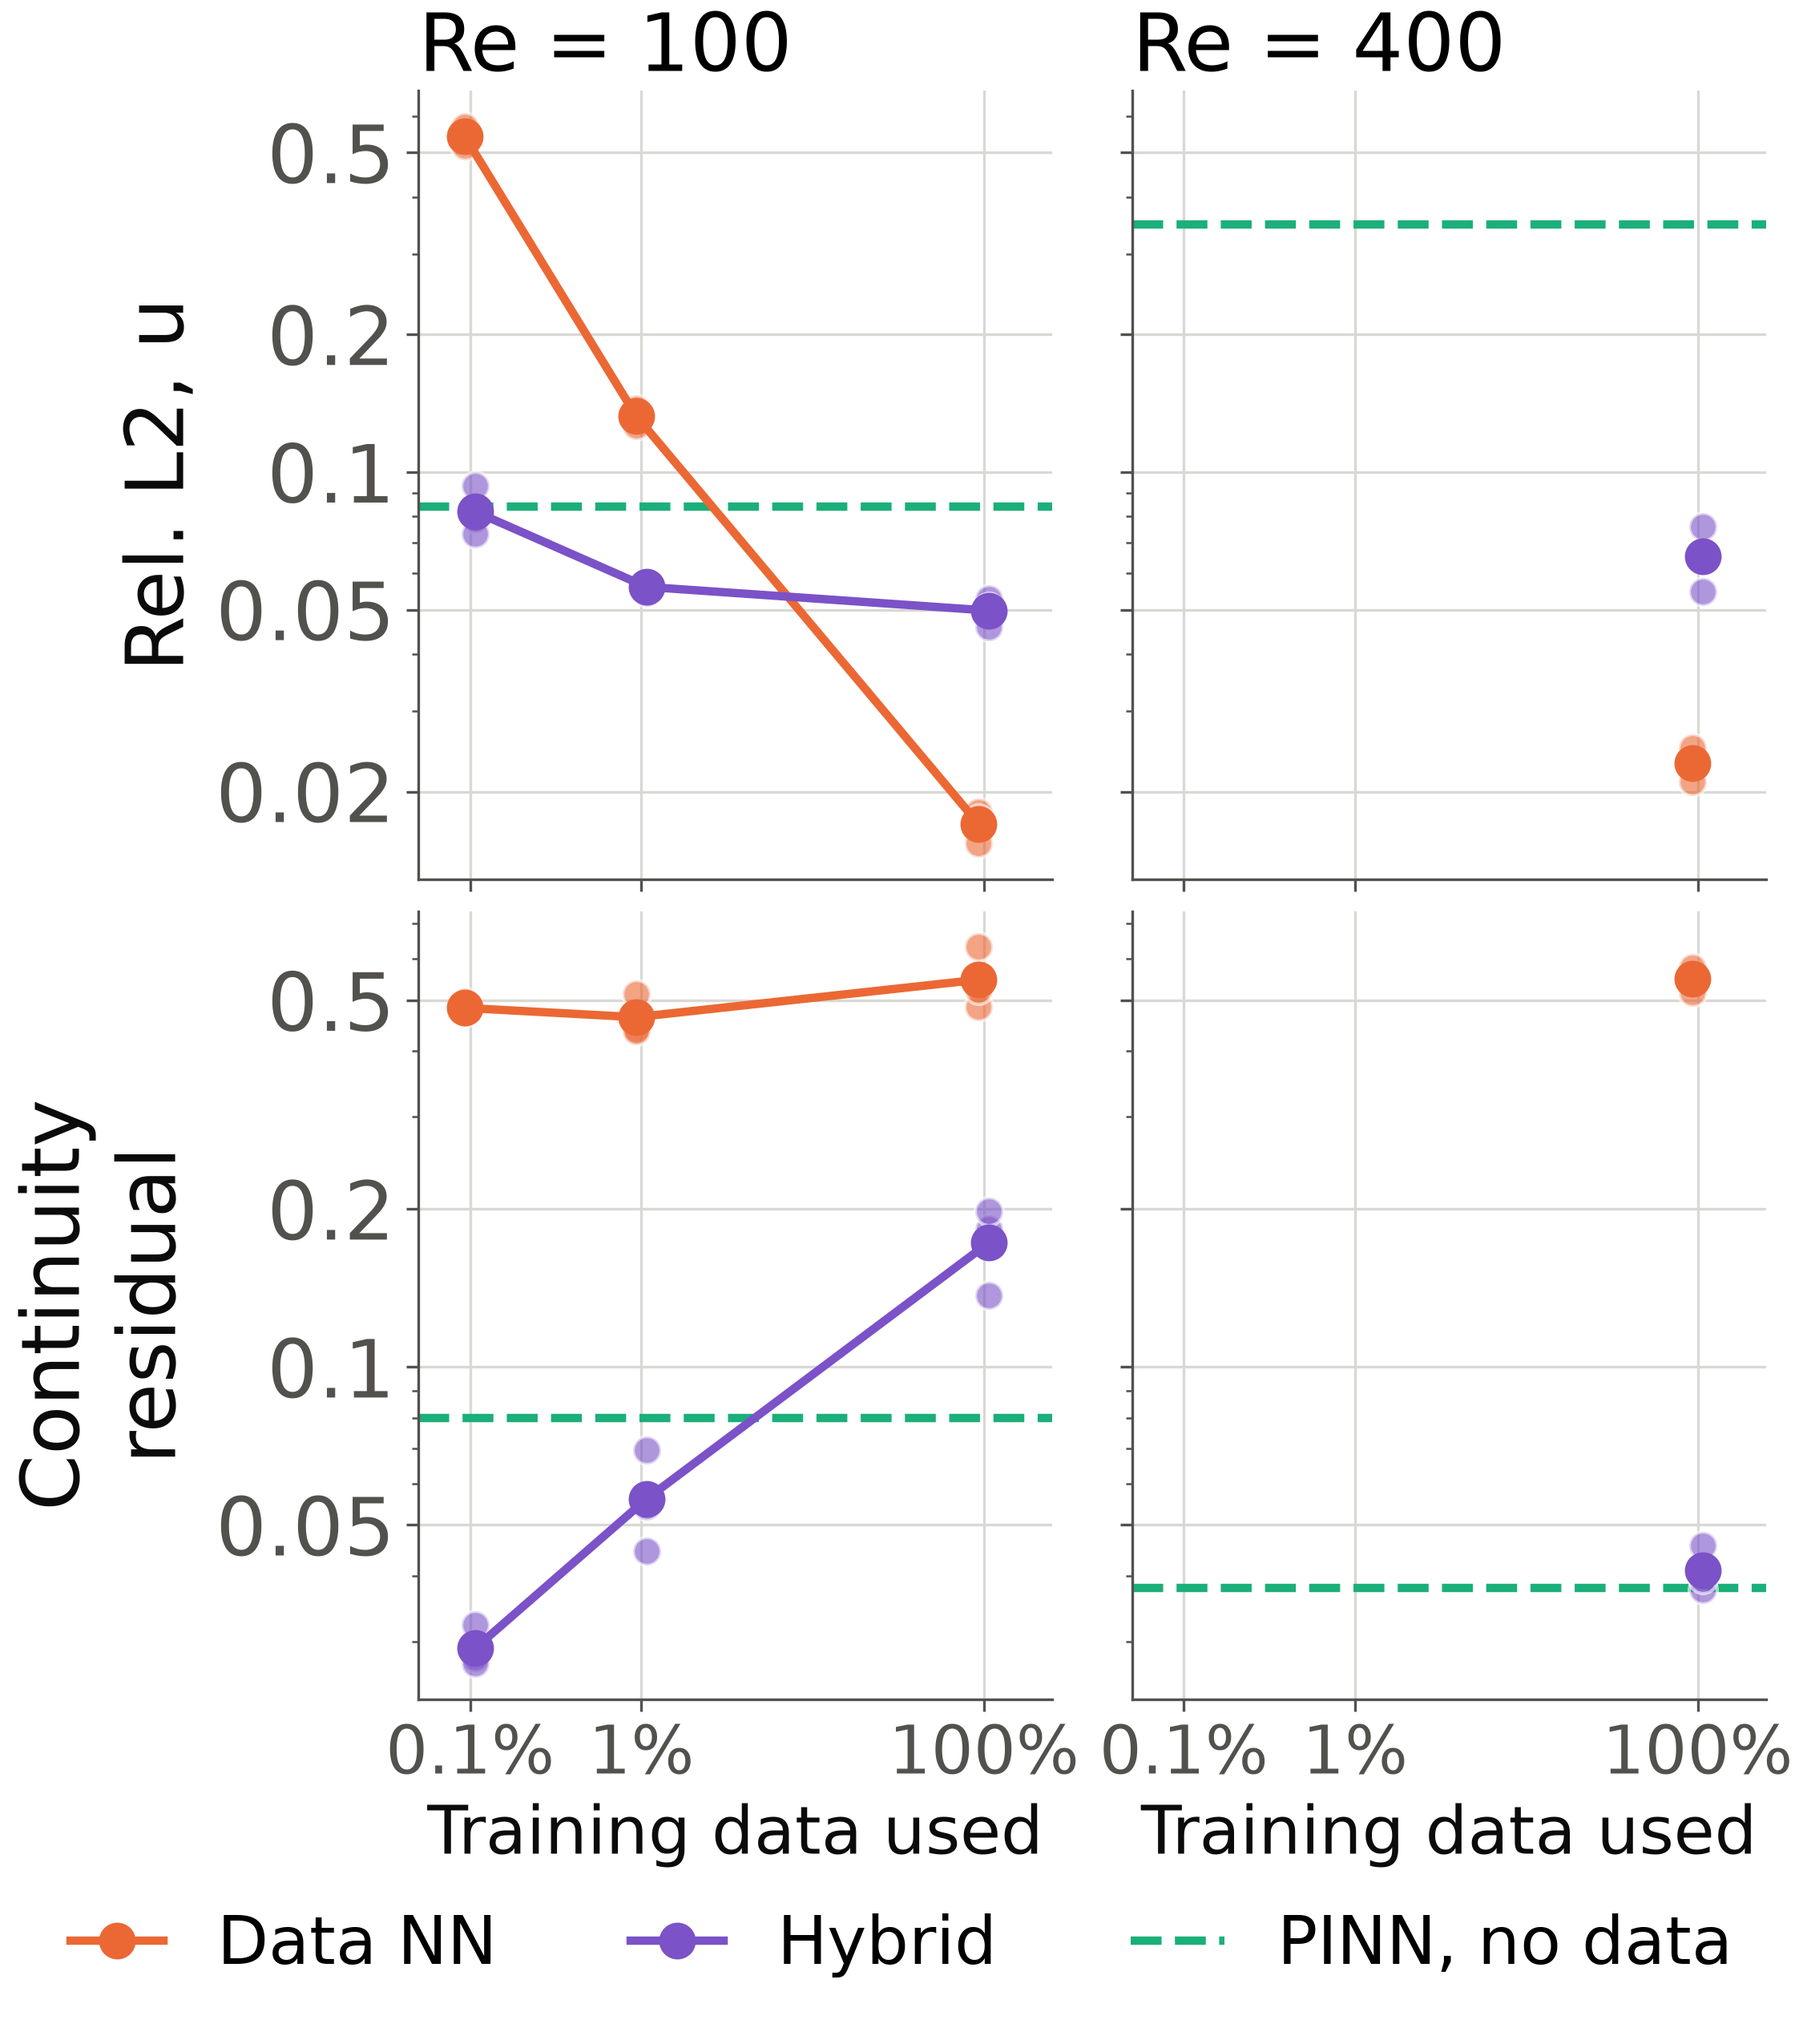
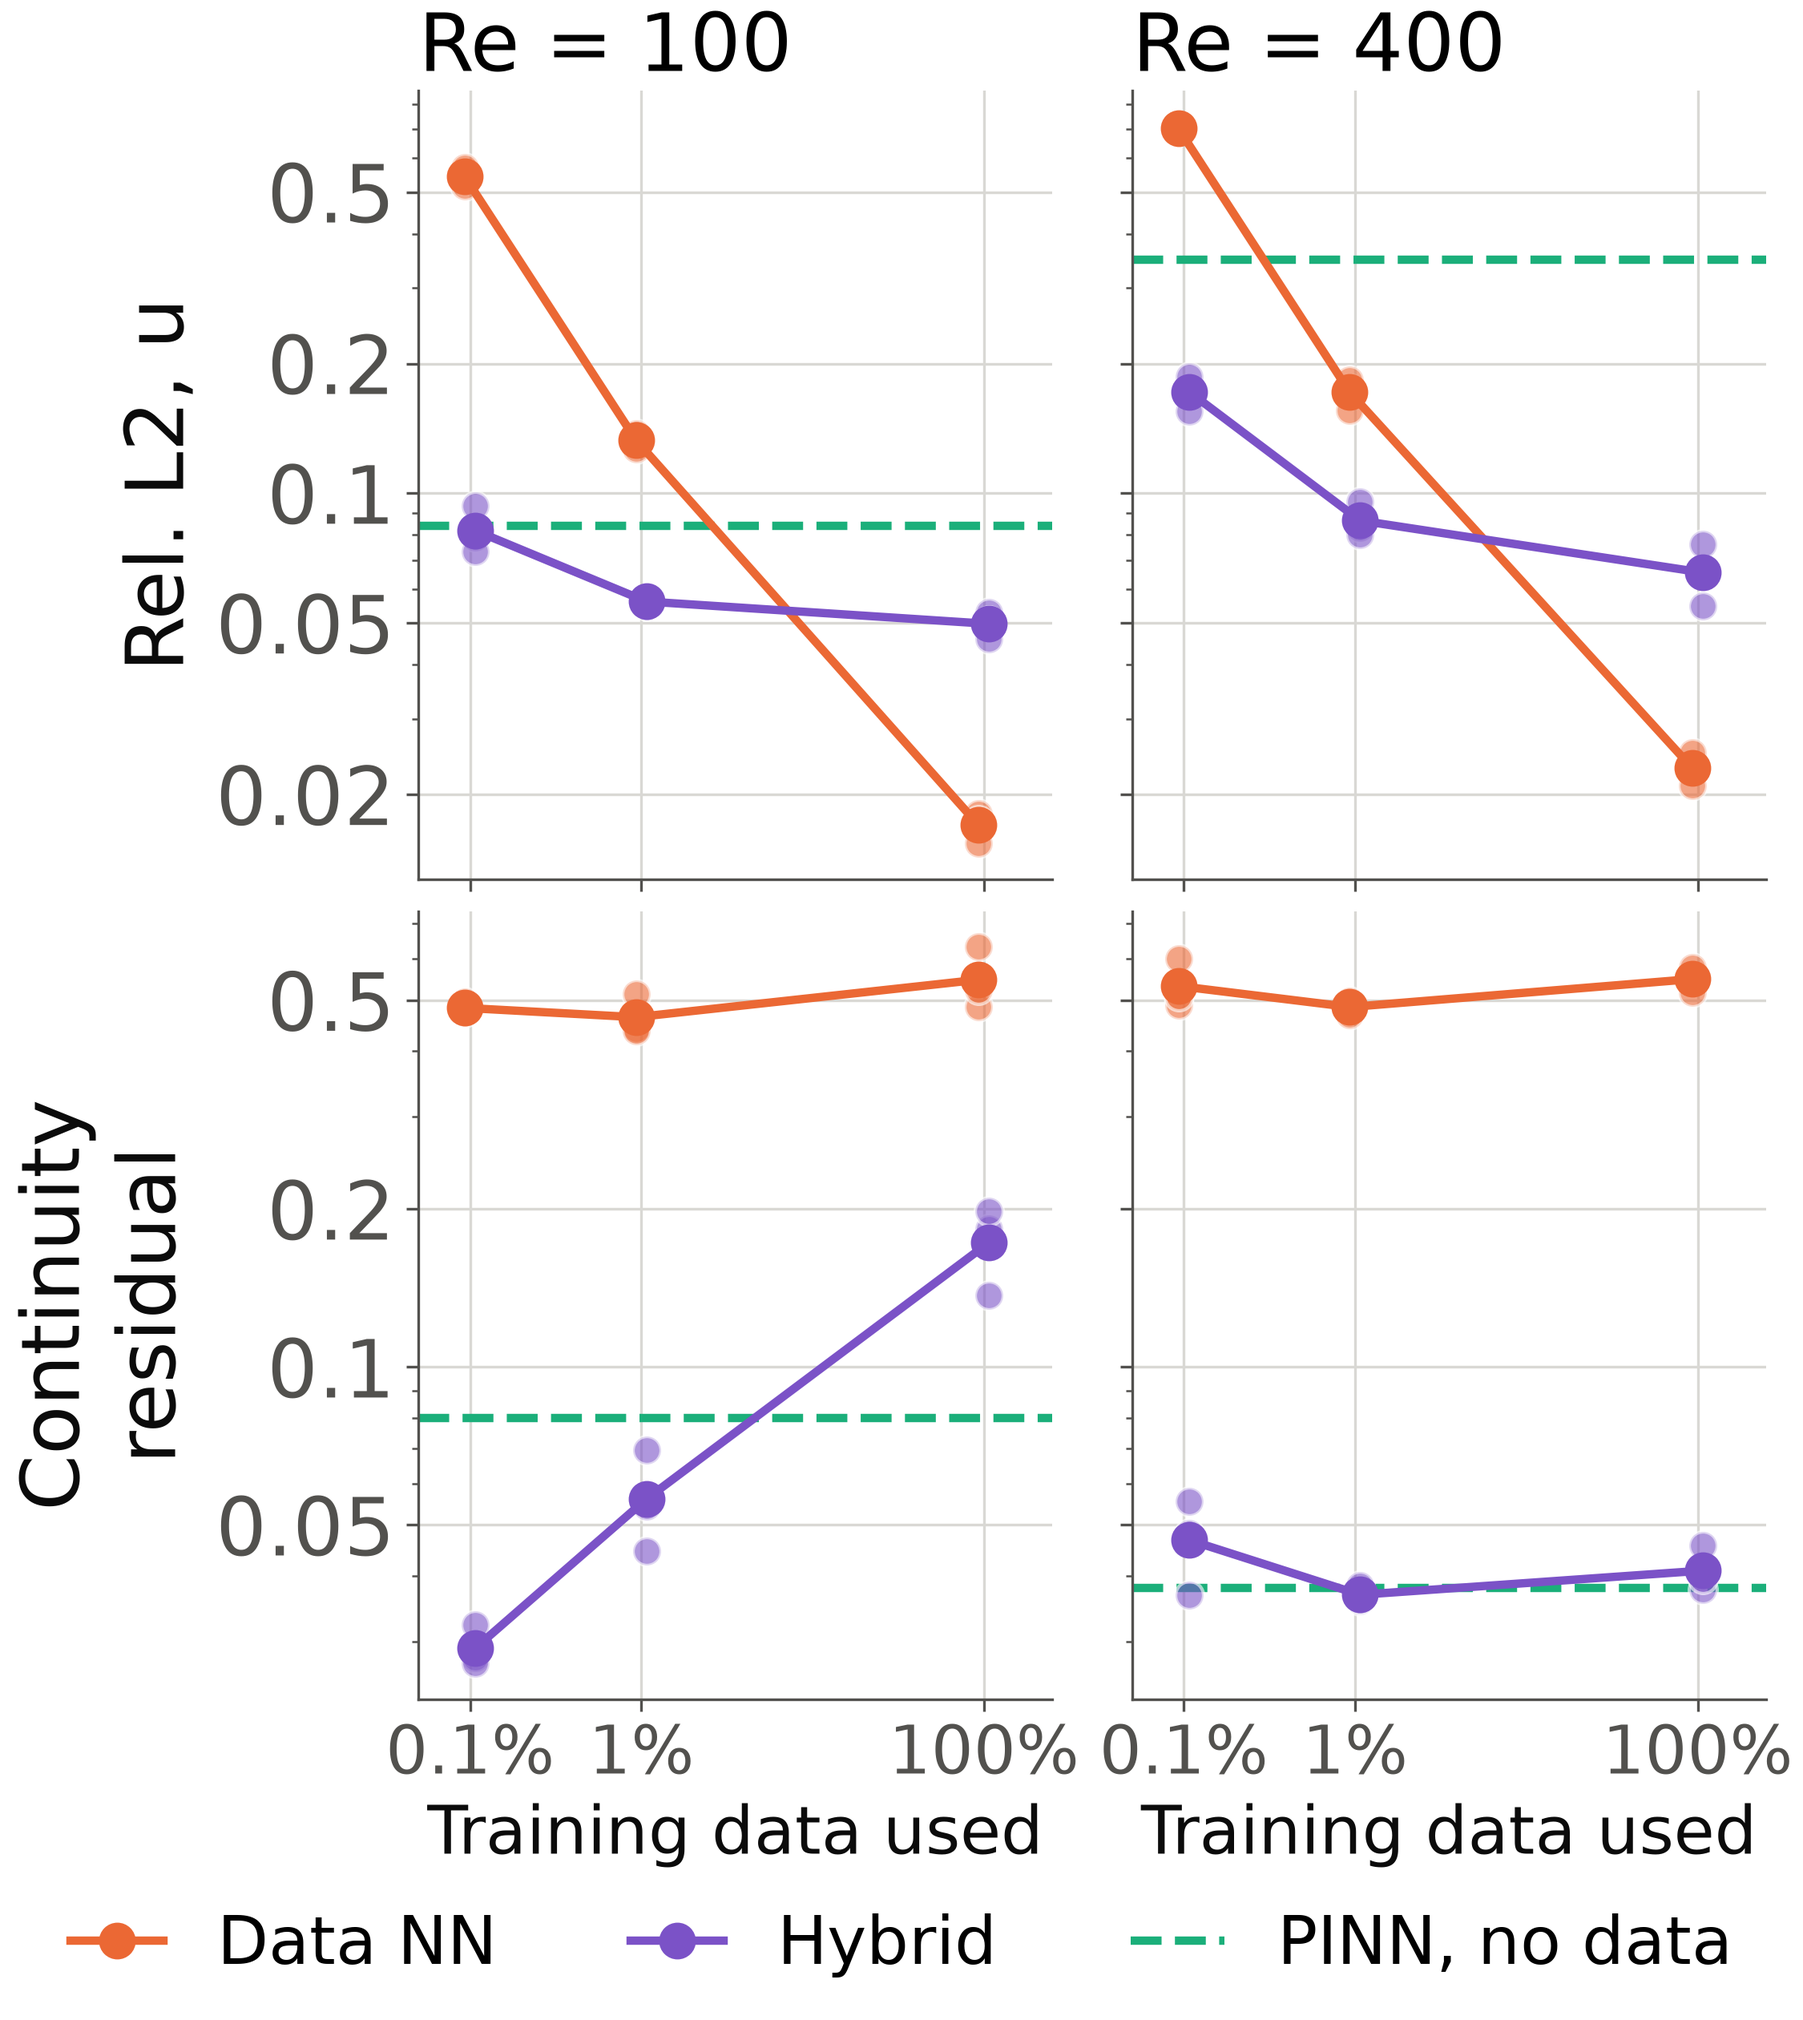
Notes and S7 figure: less-data study complete at Re 100 and 400

diff --git a/notes/results_draft.md b/notes/results_draft.md
@@ -4,7 +4,7 @@ Draft of the Results chapter. The method is described in `notes/methodology_draf
 
 **Conventions.** Three neural networks (NNs) are compared: the data-driven NN (data NN), trained on finite-difference (FD) data; the physics-informed neural network (PINN), trained on the governing equations only; and the hybrid network, trained on both. The four research questions (RQ1–RQ4) are accuracy, physical consistency, robustness and cost. Errors are relative $L_2$ errors against the $64 \times 64$ FD reference at the final training step. Test A is the held-out 15% of the space-time points, test B the ten held-out snapshots. Tables show the mean over seeds with the sample standard deviation in brackets and list the seeds used; every number comes from the file named under the table. Tables are generated from those files, not typed.
 
-All runs of the main design and of studies S1–S6 are scored. Study S7 (less training data, Section 4.7) is running; its numbers are marked as pending until every seed of a setting is scored.
+All runs of the main design and of studies S1–S7 are scored.
 
 ## 4.1 Reference solution
 
@@ -314,11 +314,11 @@ The $Re = 1000$ runs start from the S6 $Re = 400$ runs of the same seed. Sources
 
 **Figures.** `analysis_s6_continuation.png`, `analysis_s6_continuation_re1000.png`.
 
-**S7: less training data (data NN and hybrid, $Re = 100$ and 400).** Does the hybrid's physics loss make up for missing data? Both networks train on 0.1% (118 rows) or 1% (1,176 rows) of the training rows, the same rows for every seed and both networks (methodology Section 8). Results are added as each setting's seeds 1–3 are scored; settings not yet scored are marked pending.
+**S7: less training data (data NN and hybrid, $Re = 100$ and 400).** Does the hybrid's physics loss make up for missing data? Both networks train on 0.1% (118 rows) or 1% (1,176 rows) of the training rows, the same rows for every seed and both networks (methodology Section 8). Seeds 1–3 are scored for every setting.
 
 Data NN at $Re = 100$ (seeds 1–3): with 0.1% of the rows its test-A $u$ error is 0.543, with 1% 0.133, against 0.017 with all rows and 0.084 for the PINN without data; the 1% runs reproduce S1 exactly (identical training logs). Its continuity residual stays near 0.5 at every fraction (0.484, 0.464, 0.547), so less data makes the data NN less accurate but not less consistent with continuity.
 
-Hybrid at $Re = 100$ with 0.1% of the rows (seeds 1–3): test-A $u$ error 0.082, against 0.543 for the data NN on the same rows, 0.050 for the hybrid with all rows and 0.084 for the PINN without data. Its continuity residual is 0.029, lower than with all rows (0.173) and than the PINN's (0.080). With 1% of the rows the hybrid's $u$ error is 0.056 (data NN 0.133) and its continuity residual 0.056. So at $Re = 100$ the hybrid's $u$ error rises from 0.050 to 0.056 and 0.082 as the data drops from 100% to 1% and 0.1%, while the data NN's rises from 0.017 to 0.133 and 0.543. *$Re = 400$: pending.*
+Hybrid at $Re = 100$ with 0.1% of the rows (seeds 1–3): test-A $u$ error 0.082, against 0.543 for the data NN on the same rows, 0.050 for the hybrid with all rows and 0.084 for the PINN without data. Its continuity residual is 0.029, lower than with all rows (0.173) and than the PINN's (0.080). With 1% of the rows the hybrid's $u$ error is 0.056 (data NN 0.133) and its continuity residual 0.056. So at $Re = 100$ the hybrid's $u$ error rises from 0.050 to 0.056 and 0.082 as the data drops from 100% to 1% and 0.1%, while the data NN's rises from 0.017 to 0.133 and 0.543. At $Re = 400$ (seeds 1–3) the data NN's test-A $u$ error is 0.702 with 0.1% of the rows and 0.172 with 1%, against 0.023 with all rows; its continuity residual is 0.532, 0.486 and 0.549. The hybrid's is 0.172 with 0.1% and 0.086 with 1%, against 0.065 with all rows, and 0.349 for the PINN without data; its continuity residual is 0.047, 0.037 and 0.041 (PINN 0.038). At both $Re$ the hybrid has the lower $u$ error at 0.1% and 1% of the rows, the data NN with all rows. With 0.1% and 1% of the rows the hybrid's continuity residual is below 0.06 at both $Re$ (0.029, 0.056, 0.047, 0.037) and the data NN's between 0.46 and 0.54.
 
 <!-- table:s7 -->
 | $Re$ | Network | Training data | Seeds | Test A $u$ | Test A $v$ | Test A $p$ | Test B $u$ | Continuity | x-momentum |
@@ -330,11 +330,11 @@ Hybrid at $Re = 100$ with 0.1% of the rows (seeds 1–3): test-A $u$ error 0.082
 | 100 | Hybrid | 1% (1,176 rows) | 1,2,3 | 0.056 (0.0012) | 0.066 (0.0038) | 0.220 (0.0018) | 0.049 (0.0011) | 0.056 (0.013) | 0.079 (0.011) |
 | 100 | Hybrid | 100% (main runs) | 1,2,3 | 0.050 (0.0036) | 0.053 (0.0062) | 0.169 (0.0023) | 0.045 (0.0034) | 0.173 (0.032) | 1.01 (0.745) |
 | 100 | PINN | no data (main runs) | 1,2,3 | 0.084 (0.015) | 0.168 (0.030) | 0.266 (0.0065) | 0.079 (0.015) | 0.080 (0.039) | 0.110 (0.058) |
-| 400 | Data NN | 0.1% (118 rows) | – | pending | pending | pending | pending | pending | pending |
-| 400 | Data NN | 1% (1,176 rows) | – | pending | pending | pending | pending | pending | pending |
+| 400 | Data NN | 0.1% (118 rows) | 1,2,3 | 0.702 (0.0099) | 0.498 (0.014) | 0.931 (0.0071) | 0.696 (0.0093) | 0.532 (0.059) | 0.279 (0.017) |
+| 400 | Data NN | 1% (1,176 rows) | 1,2,3 | 0.172 (0.014) | 0.166 (0.0069) | 0.531 (0.050) | 0.124 (0.0089) | 0.486 (0.015) | 0.730 (0.056) |
 | 400 | Data NN | 100% (main runs) | 1,2,3 | 0.023 (0.002) | 0.025 (0.0016) | 0.158 (0.004) | 0.020 (0.0011) | 0.549 (0.030) | 2.08 (0.555) |
-| 400 | Hybrid | 0.1% (118 rows) | – | pending | pending | pending | pending | pending | pending |
-| 400 | Hybrid | 1% (1,176 rows) | – | pending | pending | pending | pending | pending | pending |
+| 400 | Hybrid | 0.1% (118 rows) | 1,2,3 | 0.172 (0.016) | 0.334 (0.042) | 0.635 (0.031) | 0.149 (0.017) | 0.047 (0.0094) | 0.070 (0.011) |
+| 400 | Hybrid | 1% (1,176 rows) | 1,2,3 | 0.086 (0.008) | 0.103 (0.0064) | 0.320 (0.0055) | 0.068 (0.0047) | 0.037 (0.0014) | 0.060 (0.004) |
 | 400 | Hybrid | 100% (main runs) | 1,2,3 | 0.065 (0.011) | 0.074 (0.0071) | 0.231 (0.017) | 0.053 (0.0077) | 0.041 (0.0043) | 0.177 (0.188) |
 | 400 | PINN | no data (main runs) | 1,2,3 | 0.349 (0.022) | 0.883 (0.098) | 0.859 (0.114) | 0.345 (0.021) | 0.038 (0.023) | 0.034 (0.0025) |
 

diff --git a/notes/week-04.md b/notes/week-04.md
@@ -234,7 +234,7 @@ Over the four Reynolds numbers, means of seeds 1 to 5, the cost of the output un
 ### Datasets and less training data (S7, 3 seeds):
 40. Dataset card. `experiments/data/README.md` now documents the four datasets: how each is built from its FD run, the row order, the splits and how they are chosen, the input scaling, the mean, standard deviation, minimum and maximum of $u$, $v$, $p$ in every split, the sha256 of each file, and the exact rows of the reduced training sets. `python -m models.common.dataset --re <Re> --check` passes for all four, and `tests/test_dataset.py` checks that the four splits are disjoint and cover every row, that they are the same at every $Re$, and that the reduced subsets are the same for every seed and for both the data NN and the hybrid (the subset code is read from both training scripts). No file has a missing value or a repeated $(x, y, t)$. Two facts worth knowing: the 0.1% and 1% subsets are separate draws (the 118 rows are not part of the 1,176), and the pressure is concentrated at the lid corners: after each snapshot's mean is removed, the 18 grid points nearest the two lid corners hold 46 to 54% of the sum of $p^2$ at every $Re$, so a relative pressure error largely measures those few points.
 
-41. Less training data (S7). Does the hybrid's physics loss make up for missing data? The data NN and the hybrid are trained on 0.1% (118 rows) and 1% (1,176 rows) of the training rows at $Re = 100$ and 400, seeds 1 to 3, everything else as in the main runs; the physics points of the hybrid are unchanged. The figure (`analysis_s7_sparse.png`: error in $u$ and continuity residual against the fraction of data, every seed a dot, the PINN without data as a dashed line) was fixed before the first hybrid run. The data NN at $Re = 100$ (seeds 1 to 3, `experiments/results/sparse_re100.csv`): test-A $u$ 0.543 with 0.1% of the rows and 0.133 with 1%, against 0.017 with all rows and 0.084 for the PINN; the 1% runs repeat S1 with identical training logs, so the runs are reproducible. Its continuity residual stays near 0.5 whatever the amount of data (0.484, 0.464, 0.547). The hybrid at $Re = 100$ with 0.1% of the rows (seeds 1 to 3): test-A $u$ 0.082, against 0.543 for the data NN on the same rows, 0.050 for the hybrid with all rows and 0.084 for the PINN; continuity residual 0.029 (0.173 with all rows, PINN 0.080). With 1% of the rows the hybrid's test-A $u$ is 0.056 (data NN 0.133) and its continuity residual 0.056. *$Re = 400$: pending.*
+41. Less training data (S7). Does the hybrid's physics loss make up for missing data? The data NN and the hybrid are trained on 0.1% (118 rows) and 1% (1,176 rows) of the training rows at $Re = 100$ and 400, seeds 1 to 3, everything else as in the main runs; the physics points of the hybrid are unchanged. The figure (`analysis_s7_sparse.png`: error in $u$ and continuity residual against the fraction of data, every seed a dot, the PINN without data as a dashed line) was fixed before the first hybrid run. The data NN at $Re = 100$ (seeds 1 to 3, `experiments/results/sparse_re100.csv`): test-A $u$ 0.543 with 0.1% of the rows and 0.133 with 1%, against 0.017 with all rows and 0.084 for the PINN; the 1% runs repeat S1 with identical training logs, so the runs are reproducible. Its continuity residual stays near 0.5 whatever the amount of data (0.484, 0.464, 0.547). The hybrid at $Re = 100$ with 0.1% of the rows (seeds 1 to 3): test-A $u$ 0.082, against 0.543 for the data NN on the same rows, 0.050 for the hybrid with all rows and 0.084 for the PINN; continuity residual 0.029 (0.173 with all rows, PINN 0.080). With 1% of the rows the hybrid's test-A $u$ is 0.056 (data NN 0.133) and its continuity residual 0.056. At $Re = 400$ (seeds 1 to 3, `experiments/results/sparse_re400.csv`): test-A $u$ for the data NN 0.702 (0.1%), 0.172 (1%), 0.023 (all rows); for the hybrid 0.172, 0.086, 0.065; PINN 0.349. Continuity residual: data NN 0.532, 0.486, 0.549; hybrid 0.047, 0.037, 0.041; PINN 0.038.
 
 ### Decisions this week:
 42. The G8 overfitting check was relaxed after it failed: the loss must fall at least 100 times in 5,000 steps with $u$ and $v$ MSE below $10^{-3}$, instead of reaching $10^{-4}$. The pressure field's lid-corner spikes keep the pressure term from going lower.

diff --git a/notes/findings_summary.md b/notes/findings_summary.md
@@ -77,7 +77,7 @@ Results at other $Re$:
 
 **Sensitivity at $Re = 100$** (3 seeds, `sensitivity_re100.csv`):
 - With 1% of the data the data NN (0.133) is worse than the PINN without data (0.082); with 10% it reaches 0.050.
-- S7 (less data, seeds 1–3): with 0.1% of the rows (118) the data NN's $u$ error is 0.543 at $Re = 100$, and its continuity residual stays near 0.5 at 0.1%, 1% and 100% (0.484, 0.464, 0.547) [`sparse_re100.csv`, `experiment_results.csv`]. With the same 118 rows the hybrid's $u$ error is 0.082 (0.050 with all rows, PINN 0.084) and its continuity residual 0.029. With 1% of the rows: hybrid 0.056, data NN 0.133. $Re = 400$ pending.
+- S7 (less data, seeds 1–3): with 0.1% of the rows (118) the data NN's $u$ error is 0.543 at $Re = 100$, and its continuity residual stays near 0.5 at 0.1%, 1% and 100% (0.484, 0.464, 0.547) [`sparse_re100.csv`, `experiment_results.csv`]. With the same 118 rows the hybrid's $u$ error is 0.082 (0.050 with all rows, PINN 0.084) and its continuity residual 0.029. With 1% of the rows: hybrid 0.056, data NN 0.133. At $Re = 400$: data NN 0.702 (0.1%) and 0.172 (1%), hybrid 0.172 and 0.086, PINN 0.349; continuity residual 0.532/0.486 for the data NN, 0.047/0.037 for the hybrid [`sparse_re400.csv`].
 - A PINN with 5,000 collocation points has a continuity residual of 1.26 at the evaluation points, mostly from the lid corners: without the points within 0.05 of a lid corner it is 0.028, against 0.017 with 20,000 points [`analysis_corner_excluded.csv`].
 - A larger network ($6 \times 100$) does not help either method. One data NN seed ended on a loss spike (0.102).
 
